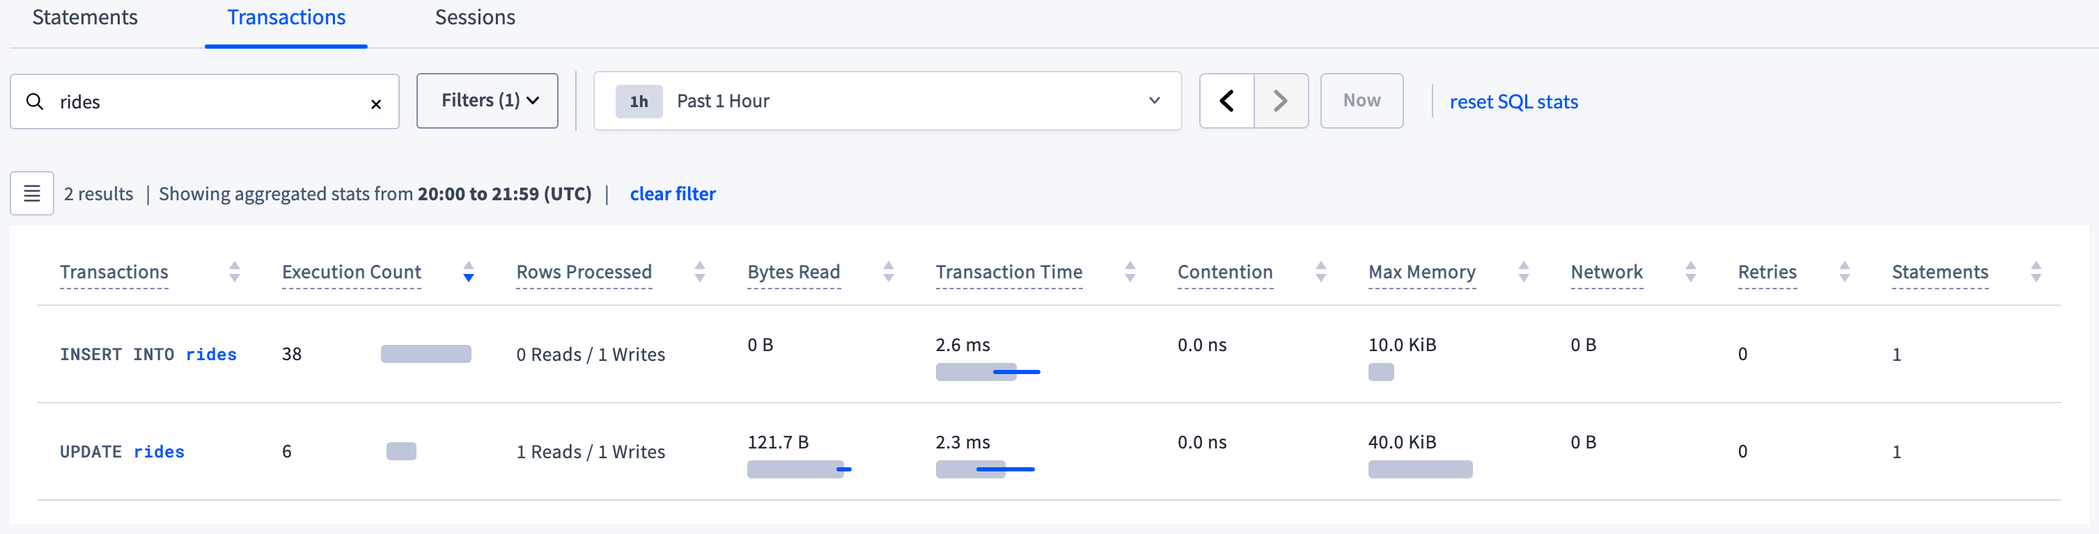
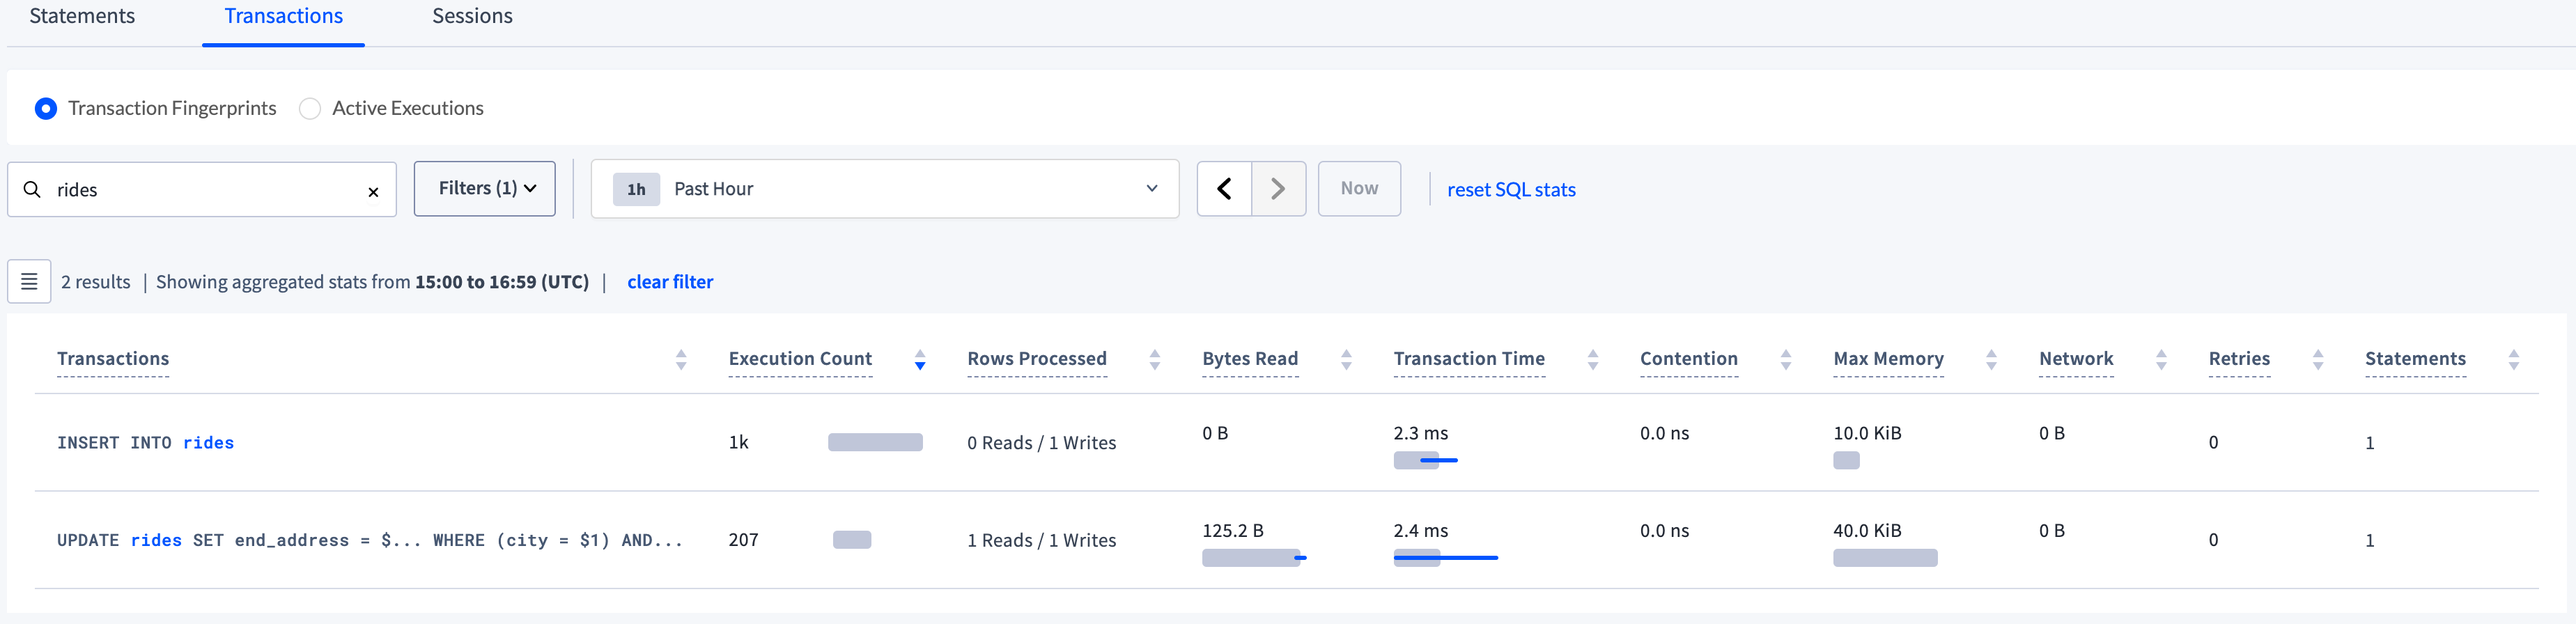
Add active executions.

diff --git a/v22.2/ui-transactions-page.md b/v22.2/ui-transactions-page.md
@@ -7,21 +7,64 @@ docs_area: reference.db_console
 
 {% include {{ page.version.version }}/ui/admin-access.md %}
 
-The **Transactions** page helps you:
+The **Transactions** page offers two views on transactions: **Transaction Fingerprints**, which represents one or more completed SQL transactions and **Active Executions**,
+which represents individual transaction executions in progress.
+
+You choose a view by selecting the **Transaction Fingerprints** or **Active Executions** radio button. The selection is retained when you switch between the Statements and Transactions tabs on the SQL Activity page.
+
+{{site.data.alerts.callout_success}}
+In contrast to the [**Statements** page](ui-statements-page.html), which displays [SQL statement fingerprints](ui-statements-page.html#sql-statement-fingerprints), the **Transactions** page displays transaction fingerprints, that is, SQL statement fingerprints grouped by [transaction](transactions.html).
+{{site.data.alerts.end}}
+
+## Transaction Fingerprints view
+
+The **Transaction Fingerprints** view helps you:
 
 - Identify frequently [retried]({{ link_prefix }}transactions.html#transaction-retries) transactions.
 - [Troubleshoot]({{ link_prefix }}query-behavior-troubleshooting.html) high latency transactions or execution failures.
 - View transaction [details](#transaction-details-page).
 
-{{site.data.alerts.callout_success}}
-In contrast to the [**Statements** page](ui-statements-page.html), which displays [SQL statement fingerprints](ui-statements-page.html#sql-statement-fingerprints), the **Transactions** page displays SQL statement fingerprints grouped by [transaction](transactions.html).
-{{site.data.alerts.end}}
-
 {% if page.cloud != true %}
-To view this page, click **SQL Activity** in the left-hand navigation of the DB Console. Click the **Transactions** tab.
+To view this page, click **SQL Activity** in the left-hand navigation of the DB Console.
 {% else %}
 To view this page, click **SQL Activity** in the left-hand navigation of the {{ site.data.products.db }} Console. Click the **Transactions** tab.
 {% endif %}
+
+Click the **Transactions** tab. The **Transaction Fingerprints** radio button is selected and the [Transactions table](#transactions-table) displays.
+
+The following screenshot shows the transaction fingerprint for `SELECT city, id FROM vehicles WHERE city = $1` while running the [`movr` workload](cockroach-workload.html#run-the-movr-workload).
+
+<img src="{{ 'images/v22.2/transaction-fingerprint.png' | relative_url }}" alt="Transaction fingerprint" style="border:1px solid #eee;max-width:100%" />
+
+If you click the transaction fingerprint in the **Transactions** column, the [**Transaction Details** page](#transaction-details-page) displays.
+
+<img src="{{ 'images/v22.2/transaction-details.png' | relative_url }}" alt="Transaction details" style="border:1px solid #eee;max-width:100%" />
+
+## Active Executions view
+
+The **Active Executions** view helps you:
+
+- Understand and tune workload performance, particularly long-running transactions.
+
+{% if page.cloud != true %}
+To display this view, click **SQL Activity** in the left-hand navigation of the DB Console.
+{% else %}
+To display this view, click **SQL Activity** in the left-hand navigation of the {{ site.data.products.db }} Console.
+{% endif %}
+
+The **Statements** tab is selected. Click the **Transactions** tab and the **Active Executions** radio button. The [Active Executions table](#active-executions-table) displays.
+
+{{site.data.alerts.callout_info}}
+Active executions are polled every 10 seconds and fast-running executions will potentially disappear upon each refresh.
+{{site.data.alerts.end}}
+
+The following screenshot shows the active statement execution for `SELECT city, id FROM vehicles WHERE city = 'paris'`:
+
+<img src="{{ 'images/v22.2/transaction-execution.png' | relative_url }}" alt="Transaction execution" style="border:1px solid #eee;max-width:100%" />
+
+If you click the execution ID in the **Transaction Execution ID** column, the [**Transaction Execution** details page](#active-execution-details-page) displays.
+
+<img src="{{ 'images/v22.2/transaction-execution-details.png' | relative_url }}" alt="Transaction execution details" style="border:1px solid #eee;max-width:100%" />
 
 ## Search and filter
 
@@ -47,3 +90,5 @@ To search using the search field:
 {% include {{ page.version.version }}/ui/transactions-table.md %}
 
 {% include {{ page.version.version }}/ui/transaction-details.md %}
+
+{% include {{ page.version.version }}/ui/active-transaction-executions.md %}

diff --git a/v22.2/ui-statements-page.md b/v22.2/ui-statements-page.md
@@ -7,17 +7,64 @@ docs_area: reference.db_console
 
 {% include {{ page.version.version }}/ui/admin-access.md %}
 
-The **Statements** page  of the DB Console helps you:
+The **Statements** page offers two views on statements: **Statement Fingerprints**, which represents one or more completed SQL statements and **Active Executions**,
+which represents individual statement executions in progress.
+
+You choose a view by selecting the **Statement Fingerprints** or **Active Executions** radio button. The selection is retained when you switch between the Statements and Transactions tabs on the SQL Activity page.
+
+{{site.data.alerts.callout_success}}
+If you haven't yet executed any queries in the cluster as a user, this page will be blank.
+{{site.data.alerts.end}}
+
+## Statement Fingerprints view
+
+The **Statements Fingerprints** view helps you:
 
 - Identify frequently executed or high latency [SQL statements](sql-statements.html).
 - View SQL statement fingerprint [details](#statement-fingerprint-page).
 - Download SQL statement [diagnostics](#diagnostics) for troubleshooting.
 
-To view this page, click **SQL Activity** in the left-hand navigation of the DB Console. The **Statements** tab is selected.
+{% if page.cloud != true %}
+To view this page, click **SQL Activity** in the left-hand navigation of the DB Console.
+{% else %}
+To view this page, click **SQL Activity** in the left-hand navigation of the {{ site.data.products.db }} Console.
+{% endif %}
 
-{{site.data.alerts.callout_success}}
-If you haven't yet executed any queries in the cluster as a user, this page will be blank.
+The **Statements** tab is selected. The **Statement Fingerprints** radio button is selected and the [Statements table](#statements-table) displays.
+
+The following screenshot shows the statement fingerprint for `SELECT city, id FROM vehicles WHERE city = $1` while running the [`movr` workload](cockroach-workload.html#run-the-movr-workload).
+
+<img src="{{ 'images/v22.2/statement-fingerprint.png' | relative_url }}" alt="Statement fingerprint" style="border:1px solid #eee;max-width:100%" />
+
+If you click the statement fingerprint in the **Statements** column, the [**Statement Fingerprint** page](#statement-fingerprint-page) displays.
+
+<img src="{{ 'images/v22.2/statement-details.png' | relative_url }}" alt="Statement details" style="border:1px solid #eee;max-width:100%" />
+
+## Active Executions view
+
+The **Active Executions** view helps you:
+
+- Understand and tune workload performance, particularly long-running statements.
+
+{% if page.cloud != true %}
+To display this view, click **SQL Activity** in the left-hand navigation of the DB Console.
+{% else %}
+To display this view, click **SQL Activity** in the left-hand navigation of the {{ site.data.products.db }} Console.
+{% endif %}
+
+The **Statements** tab is selected. Click the **Active Executions** radio button. The [Active Executions table](#active-executions-table) displays.
+
+{{site.data.alerts.callout_info}}
+Active executions are polled every 10 seconds and fast-running executions will potentially disappear upon each refresh.
 {{site.data.alerts.end}}
+
+The following screenshot shows the active statement execution for `SELECT city, id FROM vehicles WHERE city = 'washington dc'`:
+
+<img src="{{ 'images/v22.2/statement-execution.png' | relative_url }}" alt="Statement execution" style="border:1px solid #eee;max-width:100%" />
+
+If you click the execution ID in the **Statement Execution ID** column, the [**Statement Execution** details page](#active-execution-details-page) displays.
+
+<img src="{{ 'images/v22.2/statement-execution-details.png' | relative_url }}" alt="Statement execution details" style="border:1px solid #eee;max-width:100%" />
 
 ## Search and filter
 
@@ -43,3 +90,5 @@ To search using the search field:
 {% include {{ page.version.version }}/ui/statements-table.md %}
 
 {% include {{ page.version.version }}/ui/statement-details.md %}
+
+{% include {{ page.version.version }}/ui/active-statement-executions.md %}

diff --git a/_includes/v22.2/ui/active-transaction-executions.md b/_includes/v22.2/ui/active-transaction-executions.md
@@ -1,0 +1,46 @@
+## Active Executions table
+
+Click <img src="{{ 'images/common/ui-columns-button.png' | relative_url }}" alt="Column selector" /> to select the columns to display in the table.
+
+The Active Executions table gives details for each transaction fingerprint in the transaction:
+
+Column | Description
+-----|------------
+Transaction Execution ID | The execution ID of the statement transaction.
+Most Recent Statement | The [statement fingerprint](ui-statements-page.html#statements-table) of the most recently executed statement in the transaction.
+Status | The status of the execution: Preparing or Executing.
+Start Time (UTC) | The time the execution started.
+Elapsed Time | The time elapsed since the transaction started.
+Time Spent Waiting | The time the execution spent waiting for access to resources.
+Statements | The number of statements in the transaction.
+Retries | The number of times statements are retried.
+Application | The name specified by the [`application_name`](show-vars.html#supported-variables) session setting.
+
+To view details of an active transaction execution, click an execution ID in the **Transaction Execution ID** column to open the **Transaction Execution** details page.
+
+## Transaction Execution details page
+
+The details page provides the following details on the transaction execution.
+
+- **Start Time (UTC)**: the time the execution started.
+- **Elapsed Time**: the time elapsed since the transaction started.
+- **Status**: the status of the execution: Preparing or Executing.
+- **Priority**: the [priority](transactions.html#transaction-priorities) of the transaction.
+- **Full Scan**: whether the execution performed a full scan of the table.
+- **Internal Retries**: the number of retries of statements in the transaction.
+- **Last Retry Reason**: the reason for the last statement retry.
+- **Number of Statements**: the number of statements in the transaction.
+- **Application Name**: the name specified by the [`application_name`]({{ link_prefix }}show-vars.html#supported-variables) session setting.
+- **Most Recent Statement Execution ID**: Link to the ID of the most recently [executed statement](ui-statements-page.html#active-executions-table) in the transaction.
+- **Session ID**: Link to the [session](ui-sessions-page.html) in which the transaction is running.
+
+## See also
+
+- [Transactions]({{ link_prefix }}transactions.html)
+- [Transaction Layer]({{ link_prefix }}architecture/transaction-layer.html)
+- [Run Multi-Statement Transactions]({{ link_prefix }}run-multi-statement-transactions.html)
+{% if page.cloud != true %}
+- [Transaction latency graphs](ui-sql-dashboard.html#transactions)
+{% endif %}
+- [Transaction retries]({{ link_prefix }}transactions.html#transaction-retries)
+- [Statements Page]({{ page_prefix }}statements-page.html)

diff --git a/_includes/v22.2/ui/active-statement-executions.md b/_includes/v22.2/ui/active-statement-executions.md
@@ -1,0 +1,38 @@
+
+## Active Executions table
+
+Click <img src="{{ 'images/common/ui-columns-button.png' | relative_url }}" alt="Column selector" /> to select the columns to display in the table.
+
+Column | Description
+-----|------------
+Statement Execution ID | The execution ID of the statement execution.
+Statement Execution | The [statement fingerprint](ui-statements-page.html#statements-table) of the statement execution.
+Status | The status of the execution: Preparing or Executing.
+Start Time | The time the execution started.
+Time Spent Waiting | The time the execution spent waiting for access to resources.
+Application | The name specified by the [`application_name`](show-vars.html#supported-variables) session setting.
+
+To view details of an active statement execution, click an execution ID in the **Statement Execution ID** column to open the **Statement Execution** details page.
+
+## Statement Execution details page
+
+The details page provides the following details on the statement execution.
+
+- **Start Time (UTC)**: the time the execution started.
+- **Elapsed Time**: the time elapsed since the execution started.
+- **Status**: the status of the execution: Preparing or Executing.
+- **Full Scan**: whether the execution performed a full scan of the table.
+- **Application Name**: the name specified by the [`application_name`]({{ link_prefix }}show-vars.html#supported-variables) session setting.
+- **User Name**: the name of the user running the statement.
+- **Client Address**: the IP address and port of the client that opened the session in which the statement is running.
+- **Session ID**: link to the [session](ui-sessions-page.html) in which the transaction is running.
+- **Transaction Execution ID**: link to the ID of the [transaction](ui-transactions-page.html#active-executions-table) in which the statement is executing.
+
+## See also
+
+- [Troubleshoot Query Behavior]({{ link_prefix }}query-behavior-troubleshooting.html)
+- [Transaction retries]({{ link_prefix }}transactions.html#transaction-retries)
+- [Optimize Statement Performance]({{ link_prefix }}make-queries-fast.html)
+- [Support Resources]({{ link_prefix }}support-resources.html)
+- [Raw Status Endpoints]({{ link_prefix }}monitoring-and-alerting.html#raw-status-endpoints)
+- [Transactions Page]({{ page_prefix }}transactions-page.html)

diff --git a/_includes/v22.2/ui/transactions-filter.md b/_includes/v22.2/ui/transactions-filter.md
@@ -8,7 +8,7 @@
 
 ### Time interval
 
-To view [statement fingerprints]({{ page_prefix }}statements-page.html#sql-statement-fingerprints) within a specific time interval, click the time interval selector and pick an interval. The time interval field supports present time intervals (1 Hour, 6 Hours, 1 Day, etc.) and custom time intervals. To select a custom time interval, click the time interval field and select **Custom time interval**. In the **Start (UTC)** and **End (UTC)** fields select or type a date and time.
+To view transaction fingerprints within a specific time interval, click the time interval selector and pick an interval. The time interval field supports present time intervals (1 Hour, 6 Hours, 1 Day, etc.) and custom time intervals. To select a custom time interval, click the time interval field and select **Custom time interval**. In the **Start (UTC)** and **End (UTC)** fields select or type a date and time.
 
 Use the arrow keys to cycle through previous and next time intervals. When you select a time interval, the same interval is selected in the [Metrics]({{ link_prefix }}ui-overview.html#metrics) page.
 

diff --git a/_includes/v22.2/ui/transaction-details.md b/_includes/v22.2/ui/transaction-details.md
@@ -13,14 +13,3 @@ The details displayed on the **Transaction Details** page reflect the [time inte
 
 
 The [Statements page]({{ page_prefix }}statements-page.html) displays the statement fingerprints of all the statements in the transaction. To display the [details of a statement fingerprint]({{ page_prefix }}statements-page.html#statement-fingerprint-page), click a statement fingerprint.
-
-## See also
-
-- [Transactions]({{ link_prefix }}transactions.html)
-- [Transaction Layer]({{ link_prefix }}architecture/transaction-layer.html)
-- [Run Multi-Statement Transactions]({{ link_prefix }}run-multi-statement-transactions.html)
-{% if page.cloud != true %}
-- [Transaction latency graphs](ui-sql-dashboard.html#transactions)
-{% endif %}
-- [Transaction retries]({{ link_prefix }}transactions.html#transaction-retries)
-- [Statements Page]({{ page_prefix }}statements-page.html)

diff --git a/_includes/v22.2/ui/transactions-table.md b/_includes/v22.2/ui/transactions-table.md
@@ -2,7 +2,7 @@
 
 Click <img src="{{ 'images/common/ui-columns-button.png' | relative_url }}" alt="Column selector" /> to select the columns to display in the table.
 
-The Transactions table gives details for each SQL statement fingerprint in the transaction:
+The Transactions table gives details for each transaction fingerprint in the transaction:
 
 Column | Description
 -----|------------
@@ -22,4 +22,4 @@ Statements | Number of SQL statements in the transaction.
 Significant transactions on your database are likely to have a high execution count or number of rows read.
 {{site.data.alerts.end}}
 
-To view transaction details, click a transaction fingerprint in the **Transactions** column to open the **Transaction Details** page.
+To view details of a transaction, click a transaction fingerprint in the **Transactions** column to open the **Transaction Details** page.

diff --git a/_includes/v22.2/ui/statement-details.md b/_includes/v22.2/ui/statement-details.md
@@ -103,12 +103,3 @@ Although fingerprints are periodically cleared from the Statements page, all dia
 {% endif %}
 
 Click <img src="{{ 'images/v22.2/ui-download-button.png' | relative_url }}" alt="Download bundle" /> **Bundle (.zip)** to download any diagnostics bundle.
-
-## See also
-
-- [Troubleshoot Query Behavior]({{ link_prefix }}query-behavior-troubleshooting.html)
-- [Transaction retries]({{ link_prefix }}transactions.html#transaction-retries)
-- [Optimize Statement Performance]({{ link_prefix }}make-queries-fast.html)
-- [Support Resources]({{ link_prefix }}support-resources.html)
-- [Raw Status Endpoints]({{ link_prefix }}monitoring-and-alerting.html#raw-status-endpoints)
-- [Transactions Page]({{ page_prefix }}transactions-page.html)

diff --git a/_includes/v22.2/ui/sessions.md b/_includes/v22.2/ui/sessions.md
@@ -66,6 +66,10 @@ The **Cancel session** button ends the session. The client that holds this sessi
   - **Execution Start Time** is the timestamp at which the statement was run.
   - **Distributed Execution?** shows whether the statement uses [Distributed SQL (DistSQL)]({{ link_prefix }}architecture/sql-layer.html#distsql) optimization.
 
+- **Most Recent Transaction Fingerprints Executed**
+
+  A list of the most recent transaction fingerprint IDs represented in hexadecimal executed by this session.
+
 ## See also
 
 - [`SHOW SESSIONS`]({{ link_prefix }}show-sessions.html)
